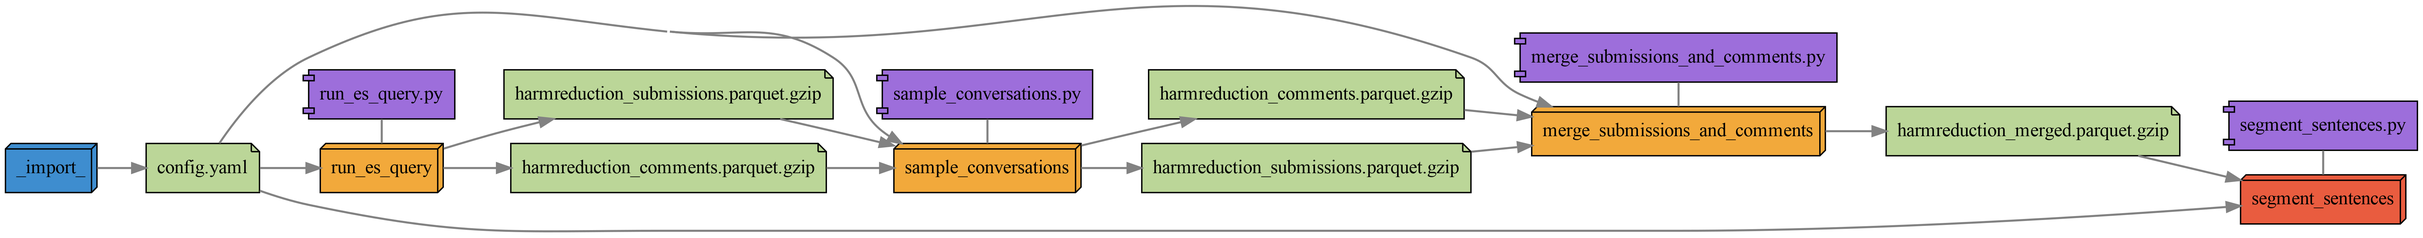
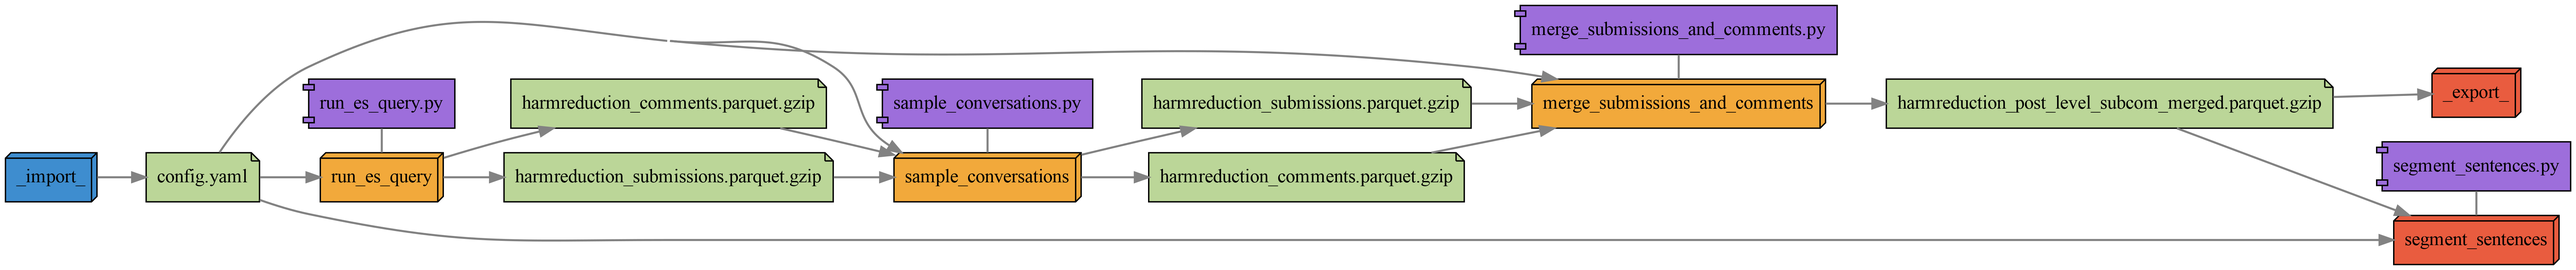
changed naming convention of post-level subcom merge

diff --git a/pipeline/segment_sentences/src/segment_sentences.py b/pipeline/segment_sentences/src/segment_sentences.py
@@ -11,7 +11,7 @@ config, _ = load_configs()
 subreddits = config['subreddits']
 
 for r in subreddits:
-    df = load_parquet(f'{r}_merged')
+    df = load_parquet(f'{r}_post_level_subcom_merged')
     df = split_sentences(df, nlp, 'text', 'id')
     logging.debug("Extracted sentences from posts and assigned sentence-level ids.") 
     save_parquet(df, f'{r}_sentences')

diff --git a/pipeline/merge_submissions_and_comments/src/merge_submissions_and_comments.py b/pipeline/merge_submissions_and_comments/src/merge_submissions_and_comments.py
@@ -12,7 +12,7 @@ for r in subreddits:
     coms = load_parquet(f'{r}_comments')
     df = merge_submissions_and_comments(subs, coms)
     logging.debug("Sucessfuly merged submissions and comments.") 
-    save_parquet(df, f'{r}_merged')
+    save_parquet(df, f'{r}_post_level_subcom_merged')
      
     
         
